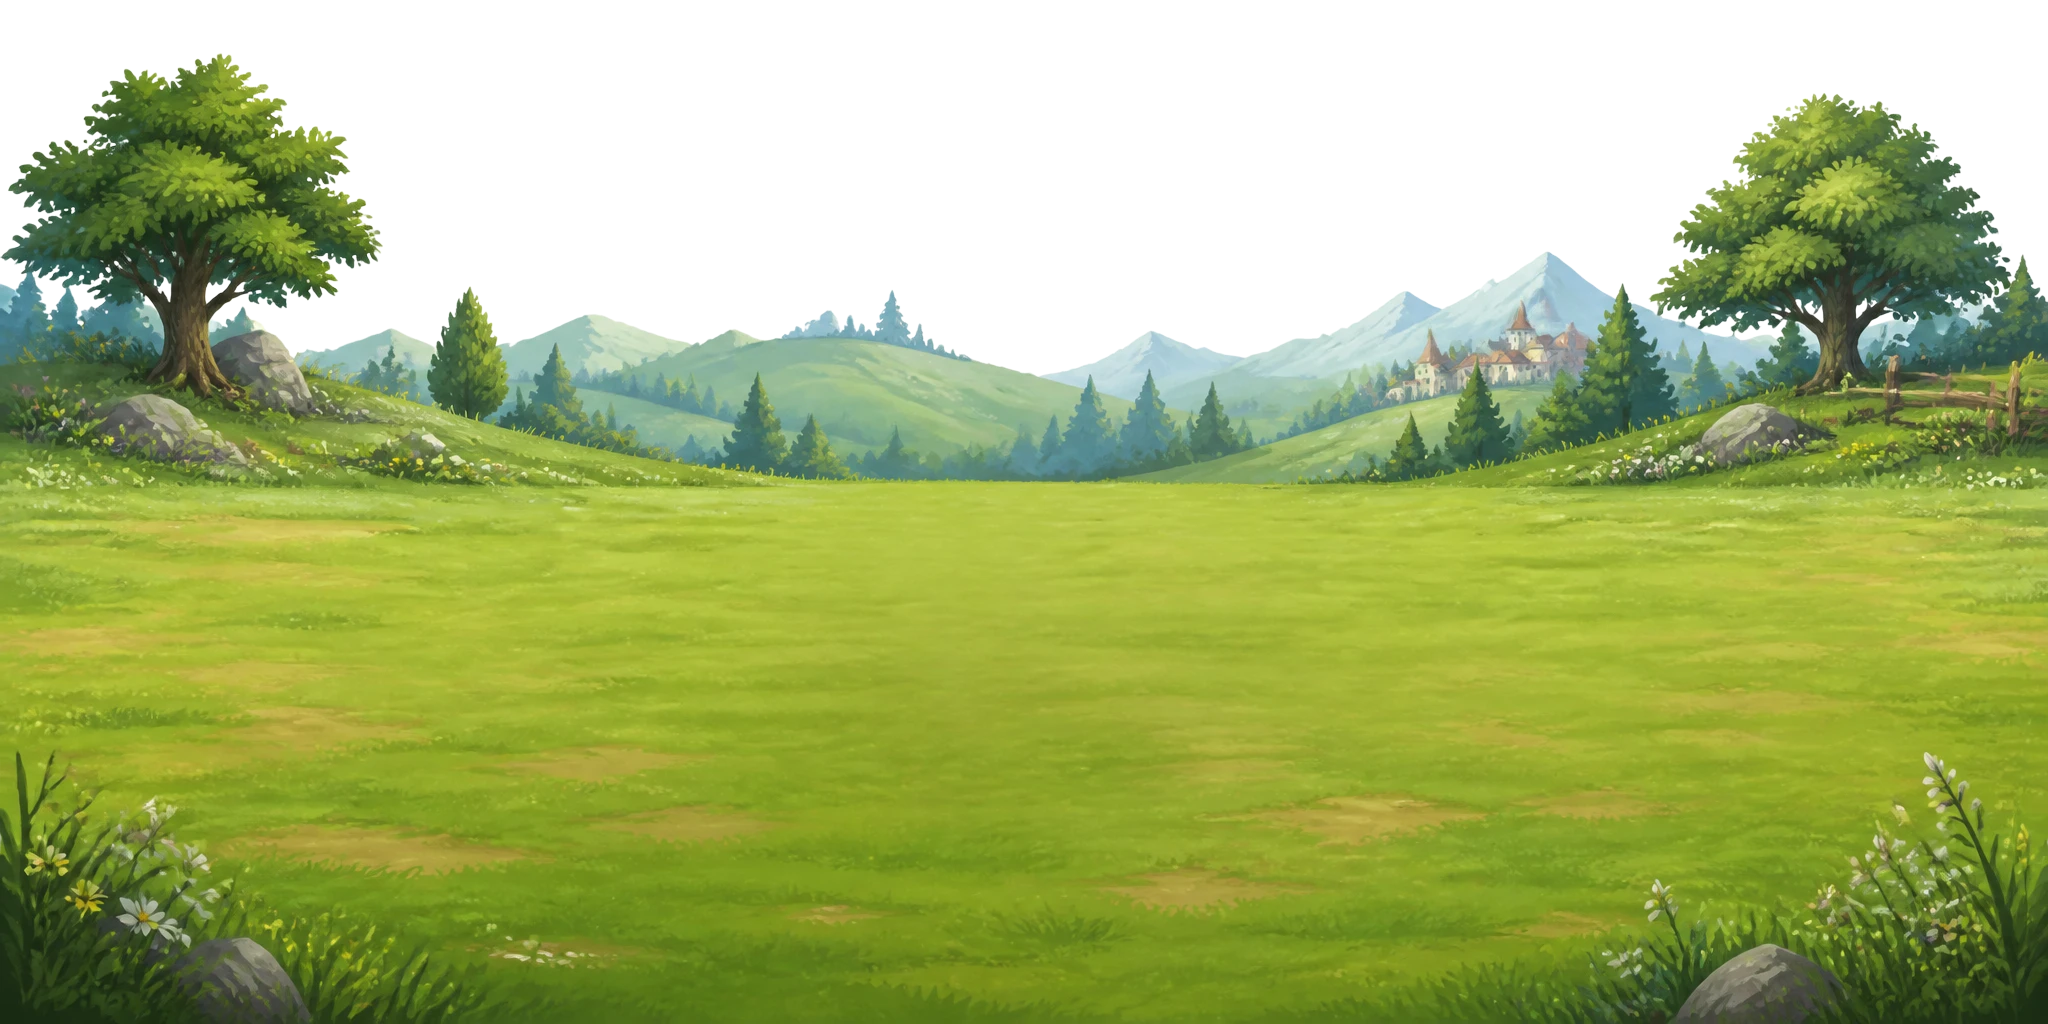
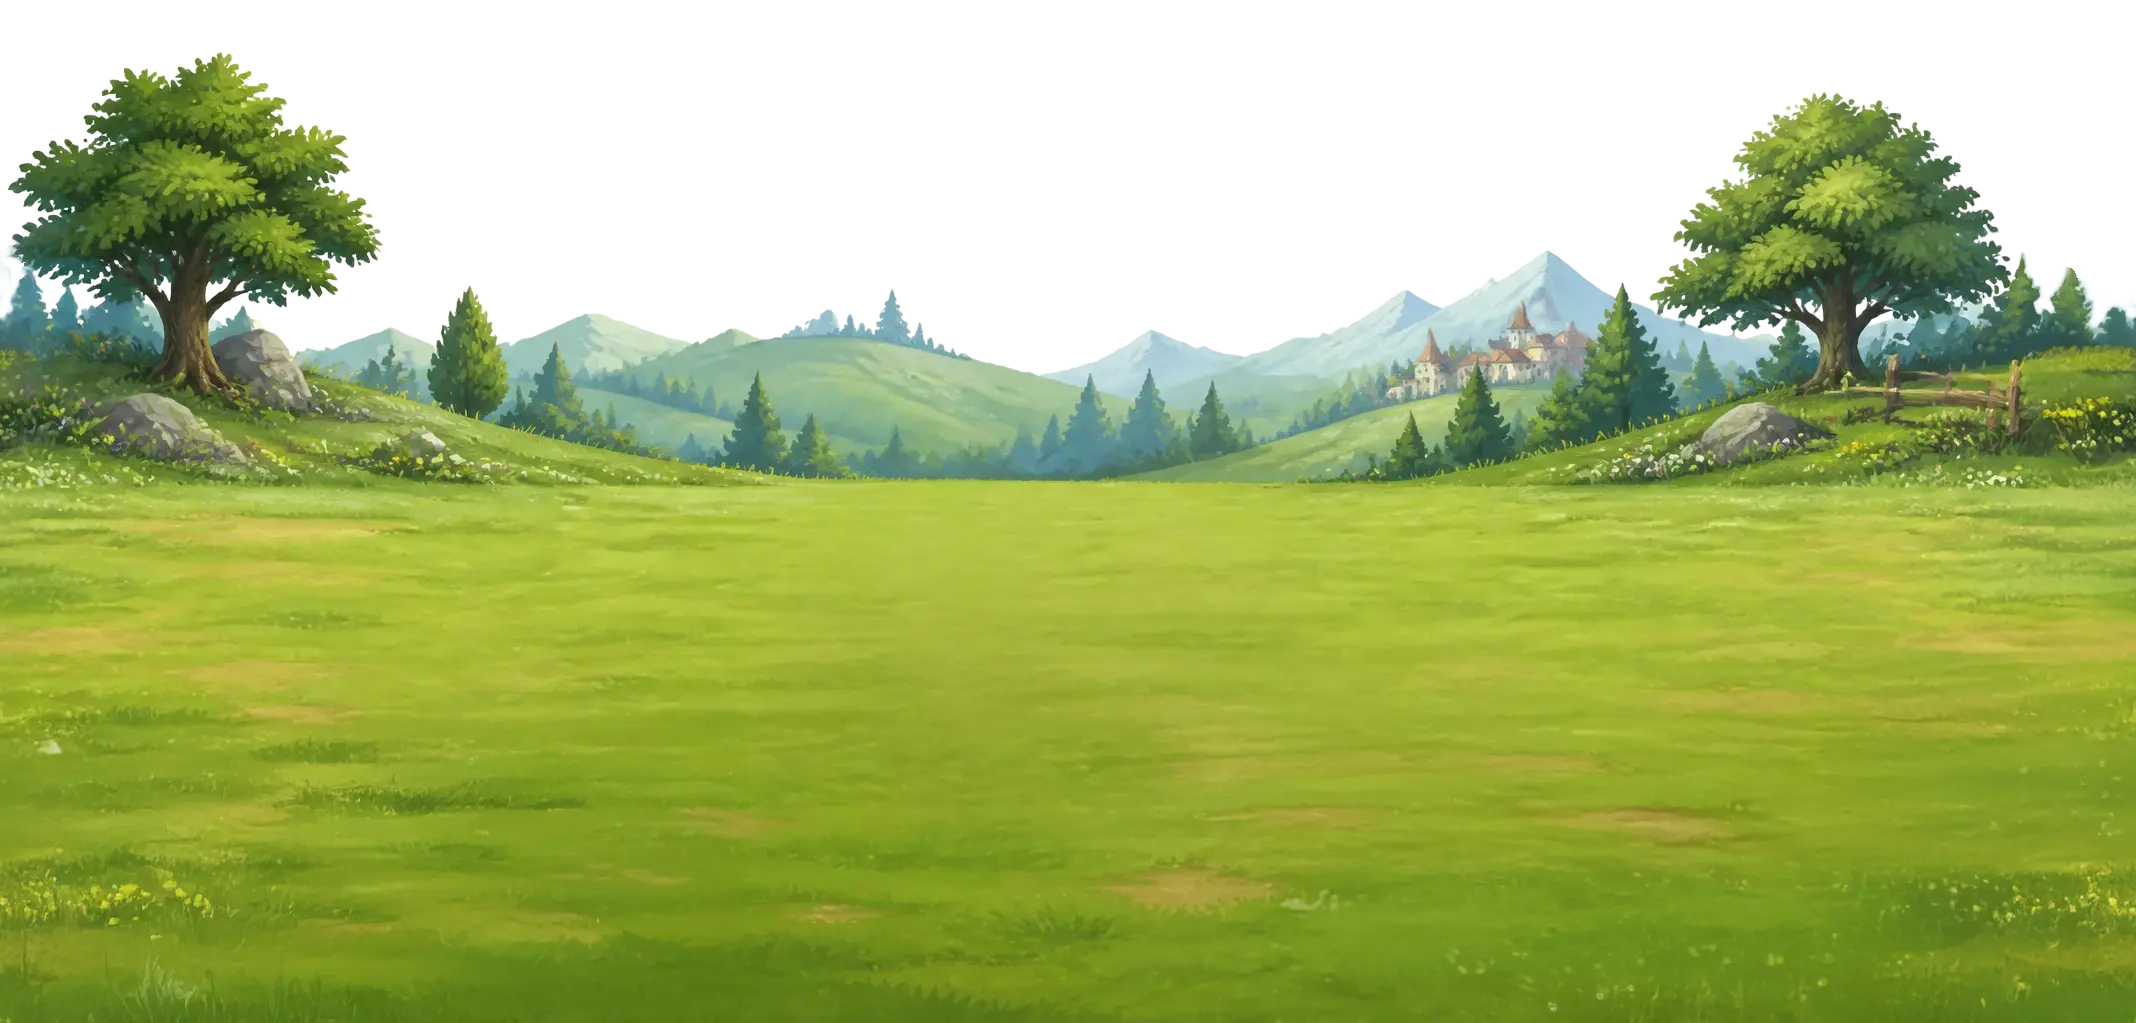
Update shared scene backgrounds

diff --git a/public/js/pixi/parallax.js b/public/js/pixi/parallax.js
@@ -13,7 +13,7 @@ const SKY_LAYER_INDEX = 0;
 // regenerated sky.webp / battleground.webp keeps showing the old cached
 // bytes. Bump this date string whenever ANY area background is regenerated
 // (mirrors the SPRITE_VERSION convention in public/js/ui/sprite-utils.js).
-export const BACKGROUND_VERSION = '20260505';
+export const BACKGROUND_VERSION = '20260508';
 
 // Default ExplorationScene walking speed outside authored room transitions.
 export const EXPLORATION_SCROLL_SPEED = 0.6;
